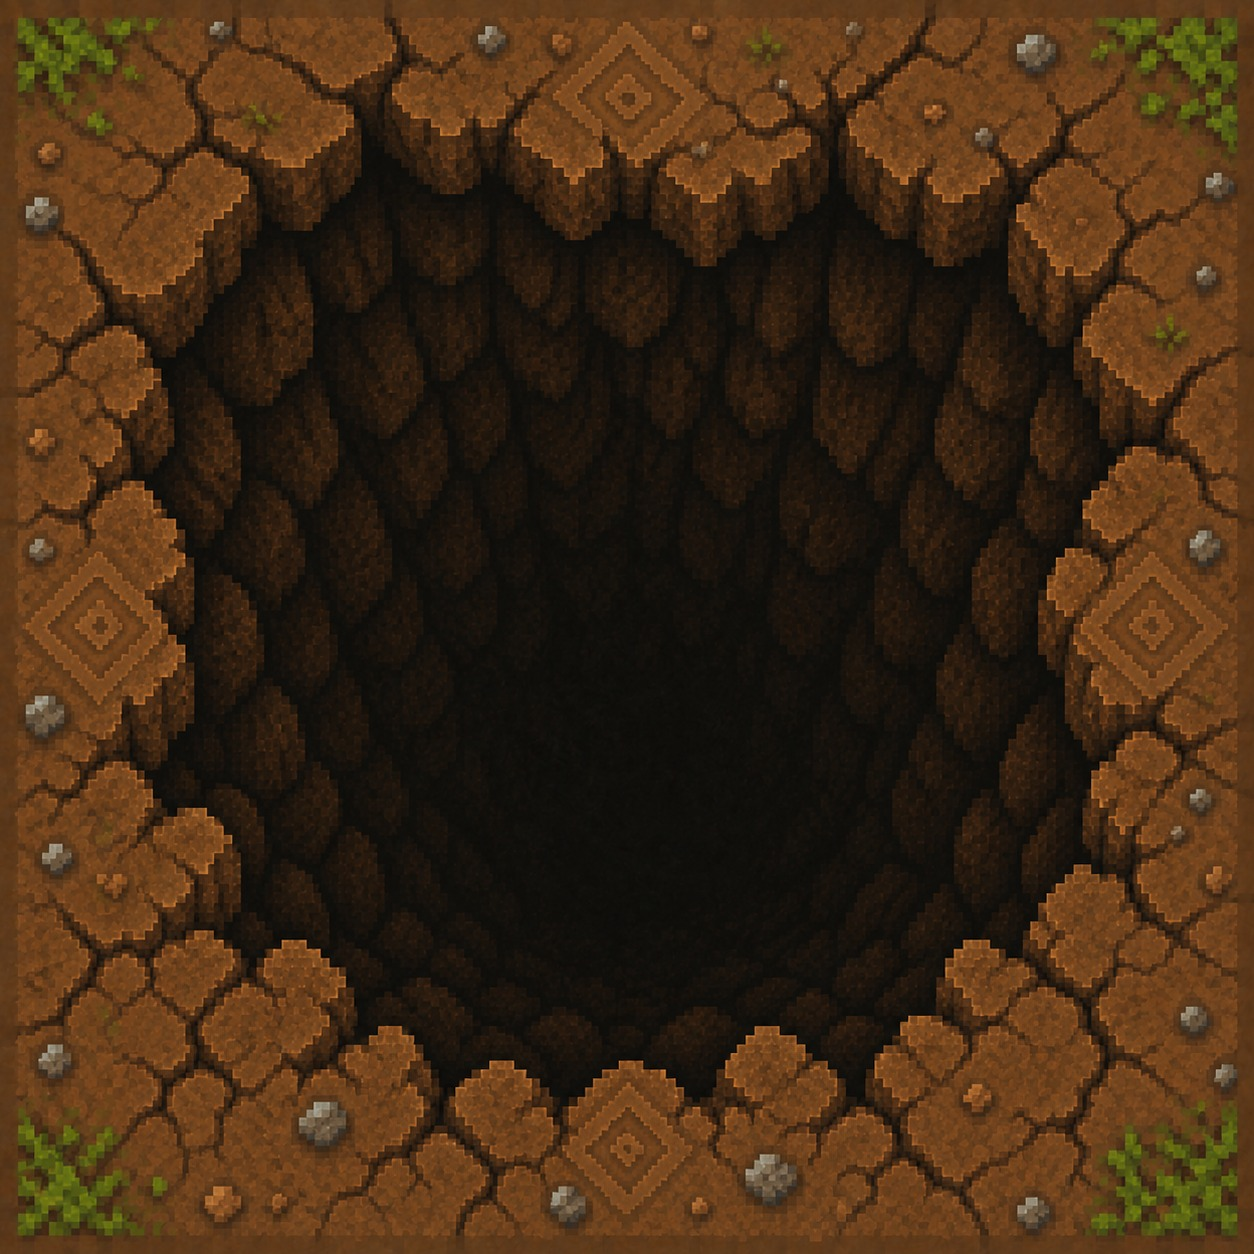
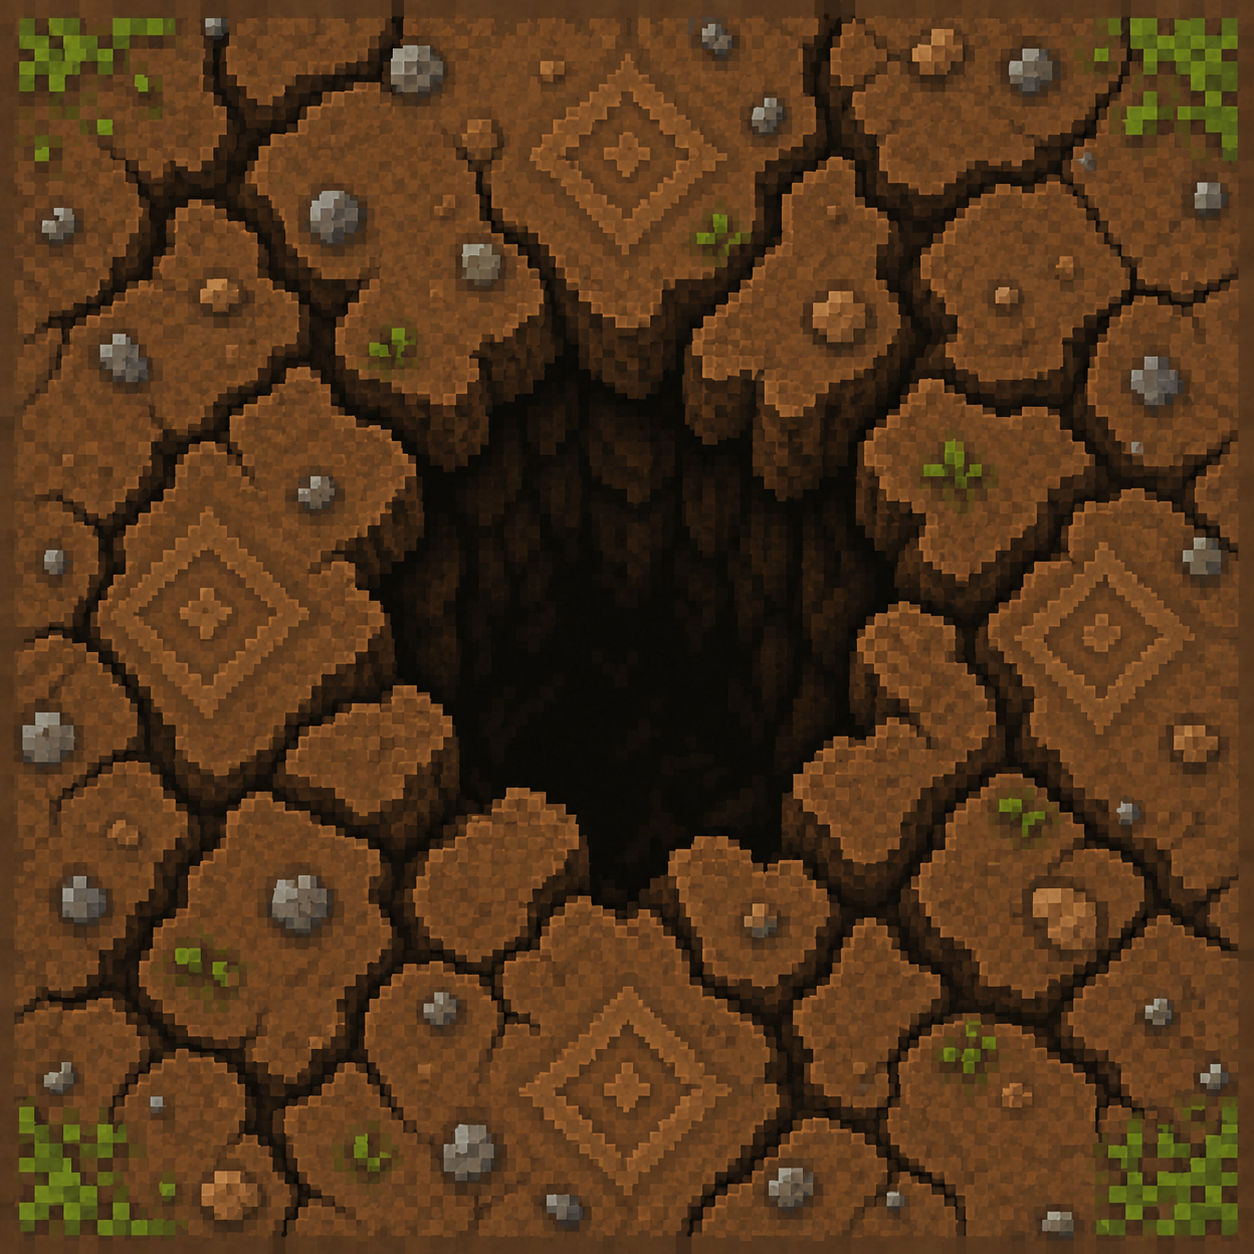
Cosas visuales mejoradas

diff --git a/src/main/java/ec/edu/epn/sokoban/view/PanelTablero.java b/src/main/java/ec/edu/epn/sokoban/view/PanelTablero.java
@@ -241,6 +241,9 @@ public class PanelTablero extends GridPane implements Dibujador<StackPane> {
     public void dibujarCaja(Caja caja, StackPane celda, int tamCelda) {
         agregarSueloBase(celda);
         dibujarAccionesDeCasilla(caja.getFila(), caja.getColumna(), celda);
+        if (Agrietado.estaRoto(caja.getFila(), caja.getColumna())) {
+            agregarSprite(celda, "AGRIETADO_ROTO", Color.web("#1F1712"));
+        }
         if (caja.isEnMeta()) {
             agregarSprite(celda, "META", Color.web("#F4D35E"));
         }

diff --git a/src/main/java/ec/edu/epn/sokoban/model/escenario/Agrietado.java b/src/main/java/ec/edu/epn/sokoban/model/escenario/Agrietado.java
@@ -16,7 +16,7 @@ public class Agrietado implements Accion {
 
     @Override
     public void iniciarAccion(Casilla casillaActual, Tablero tablero, Casilla entidad) {
-        if (!(entidad instanceof Personaje)) {
+        if (!(entidad instanceof Personaje) && !(entidad instanceof Caja)) {
             return;
         }
 